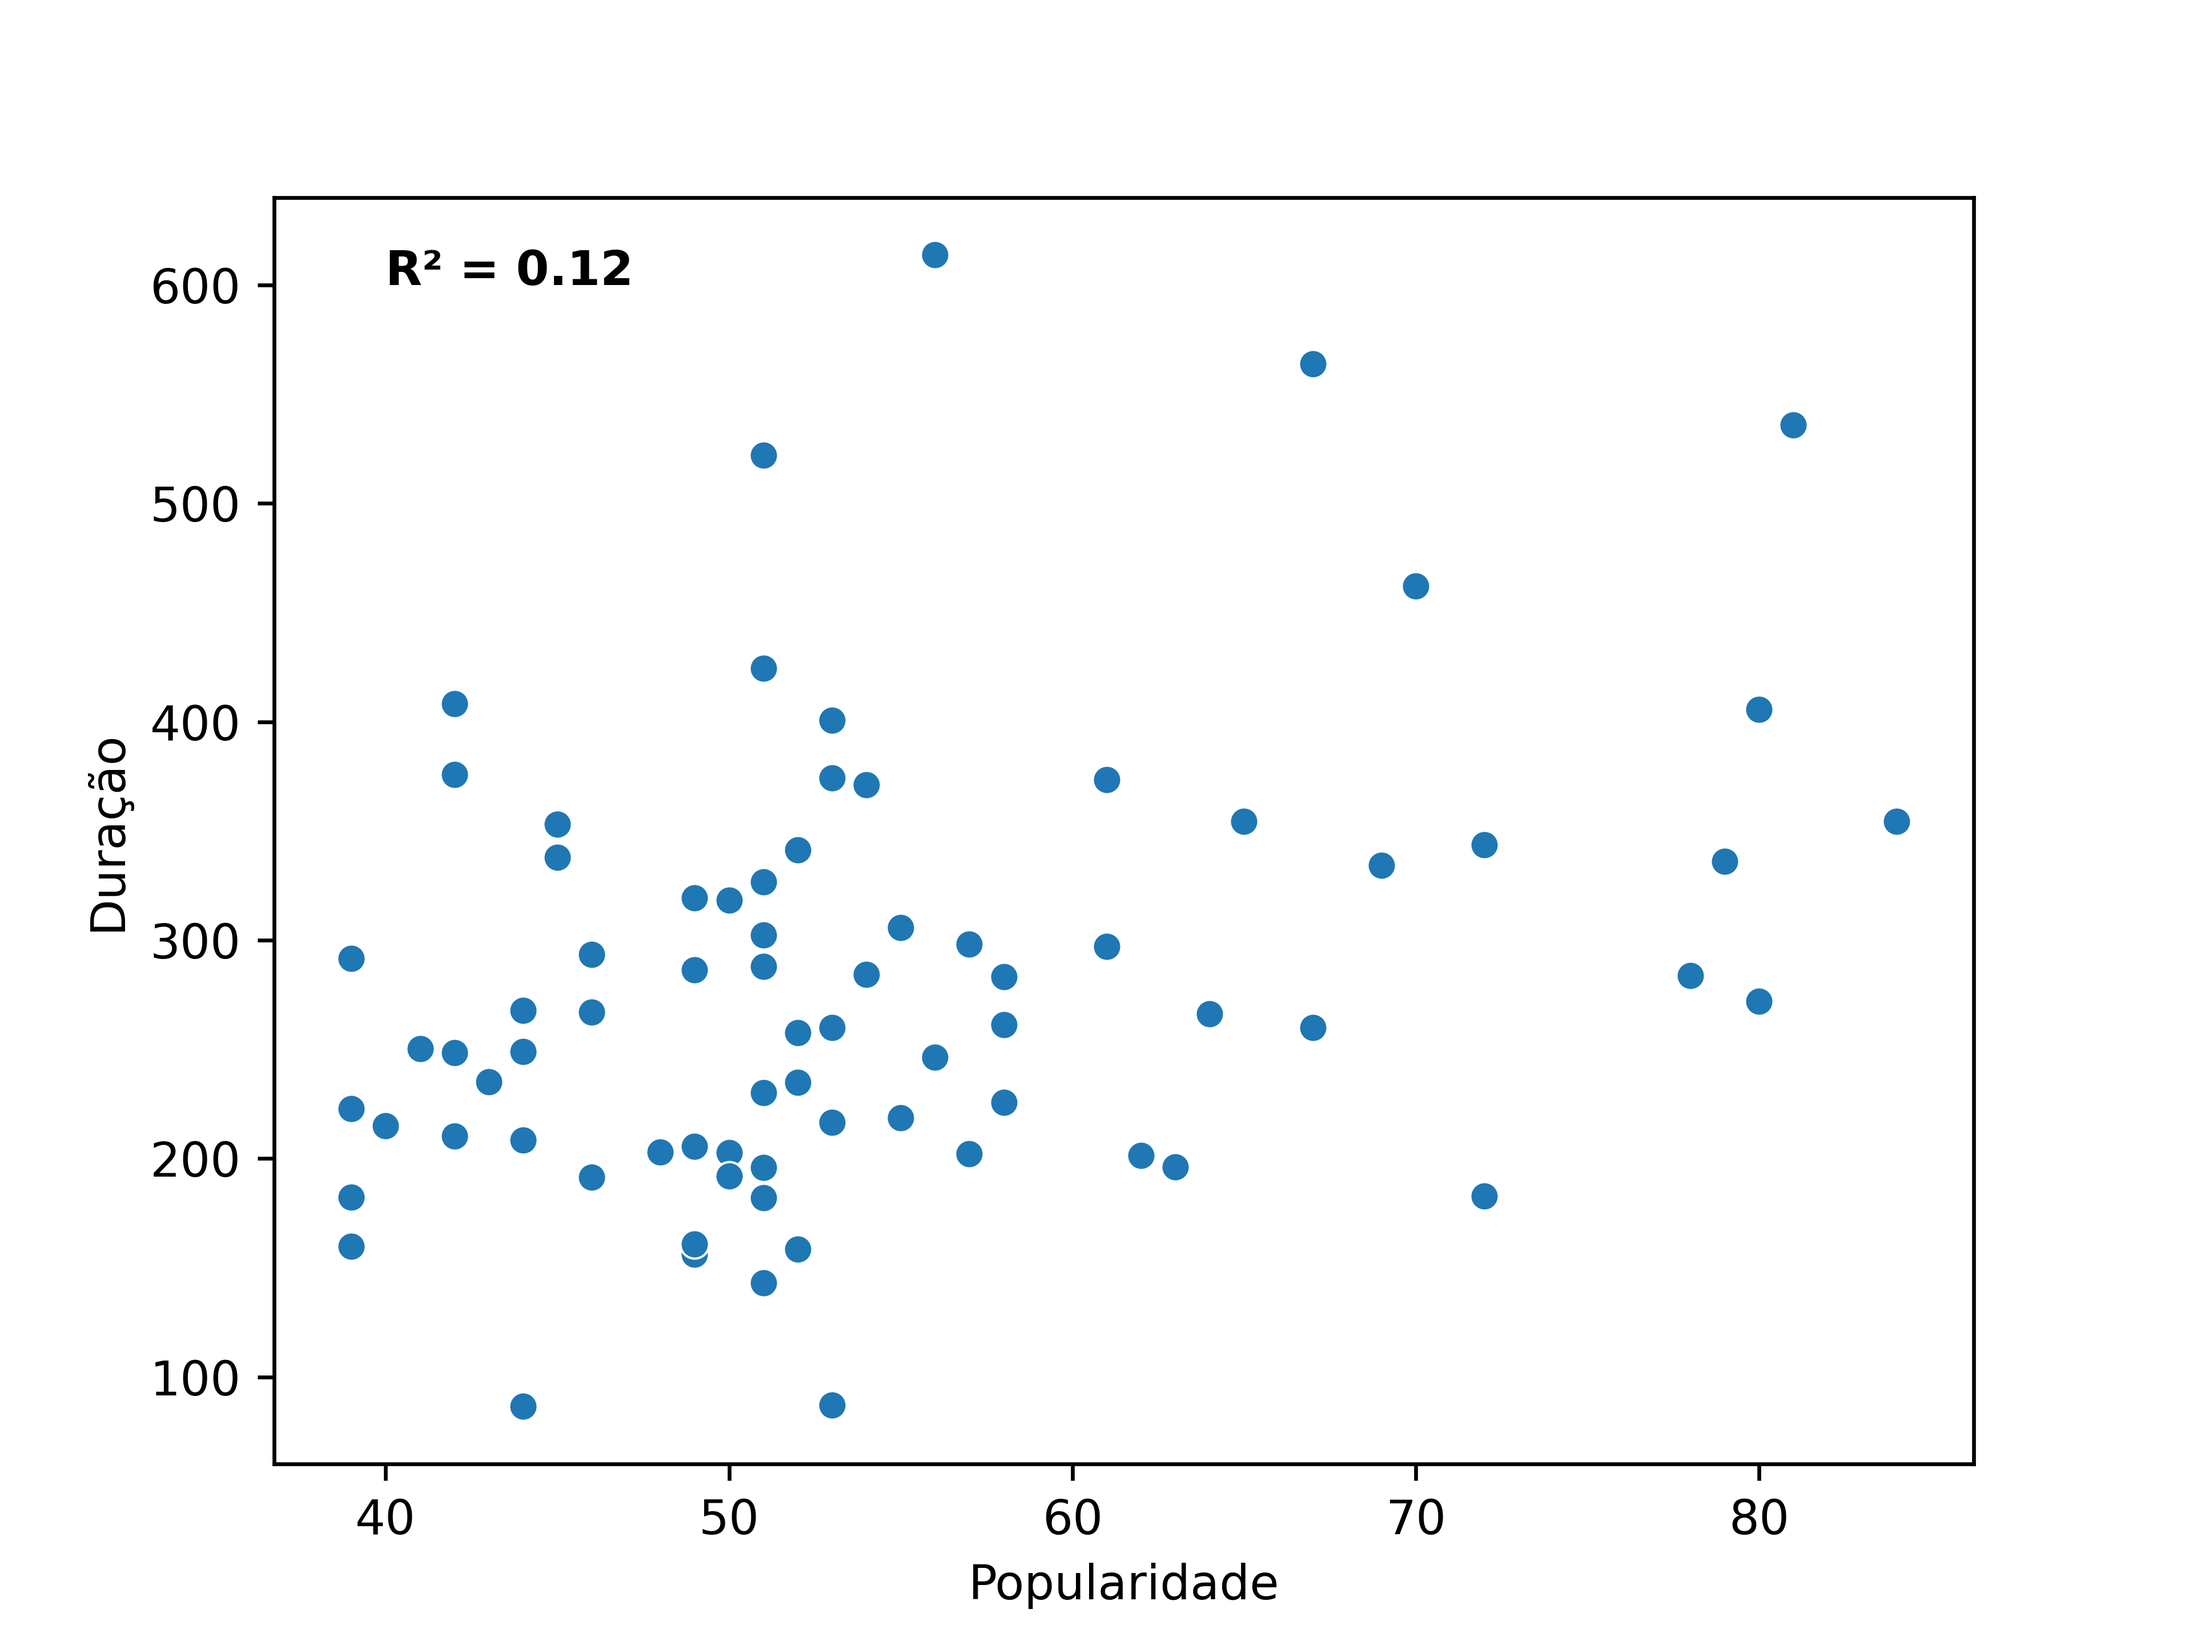
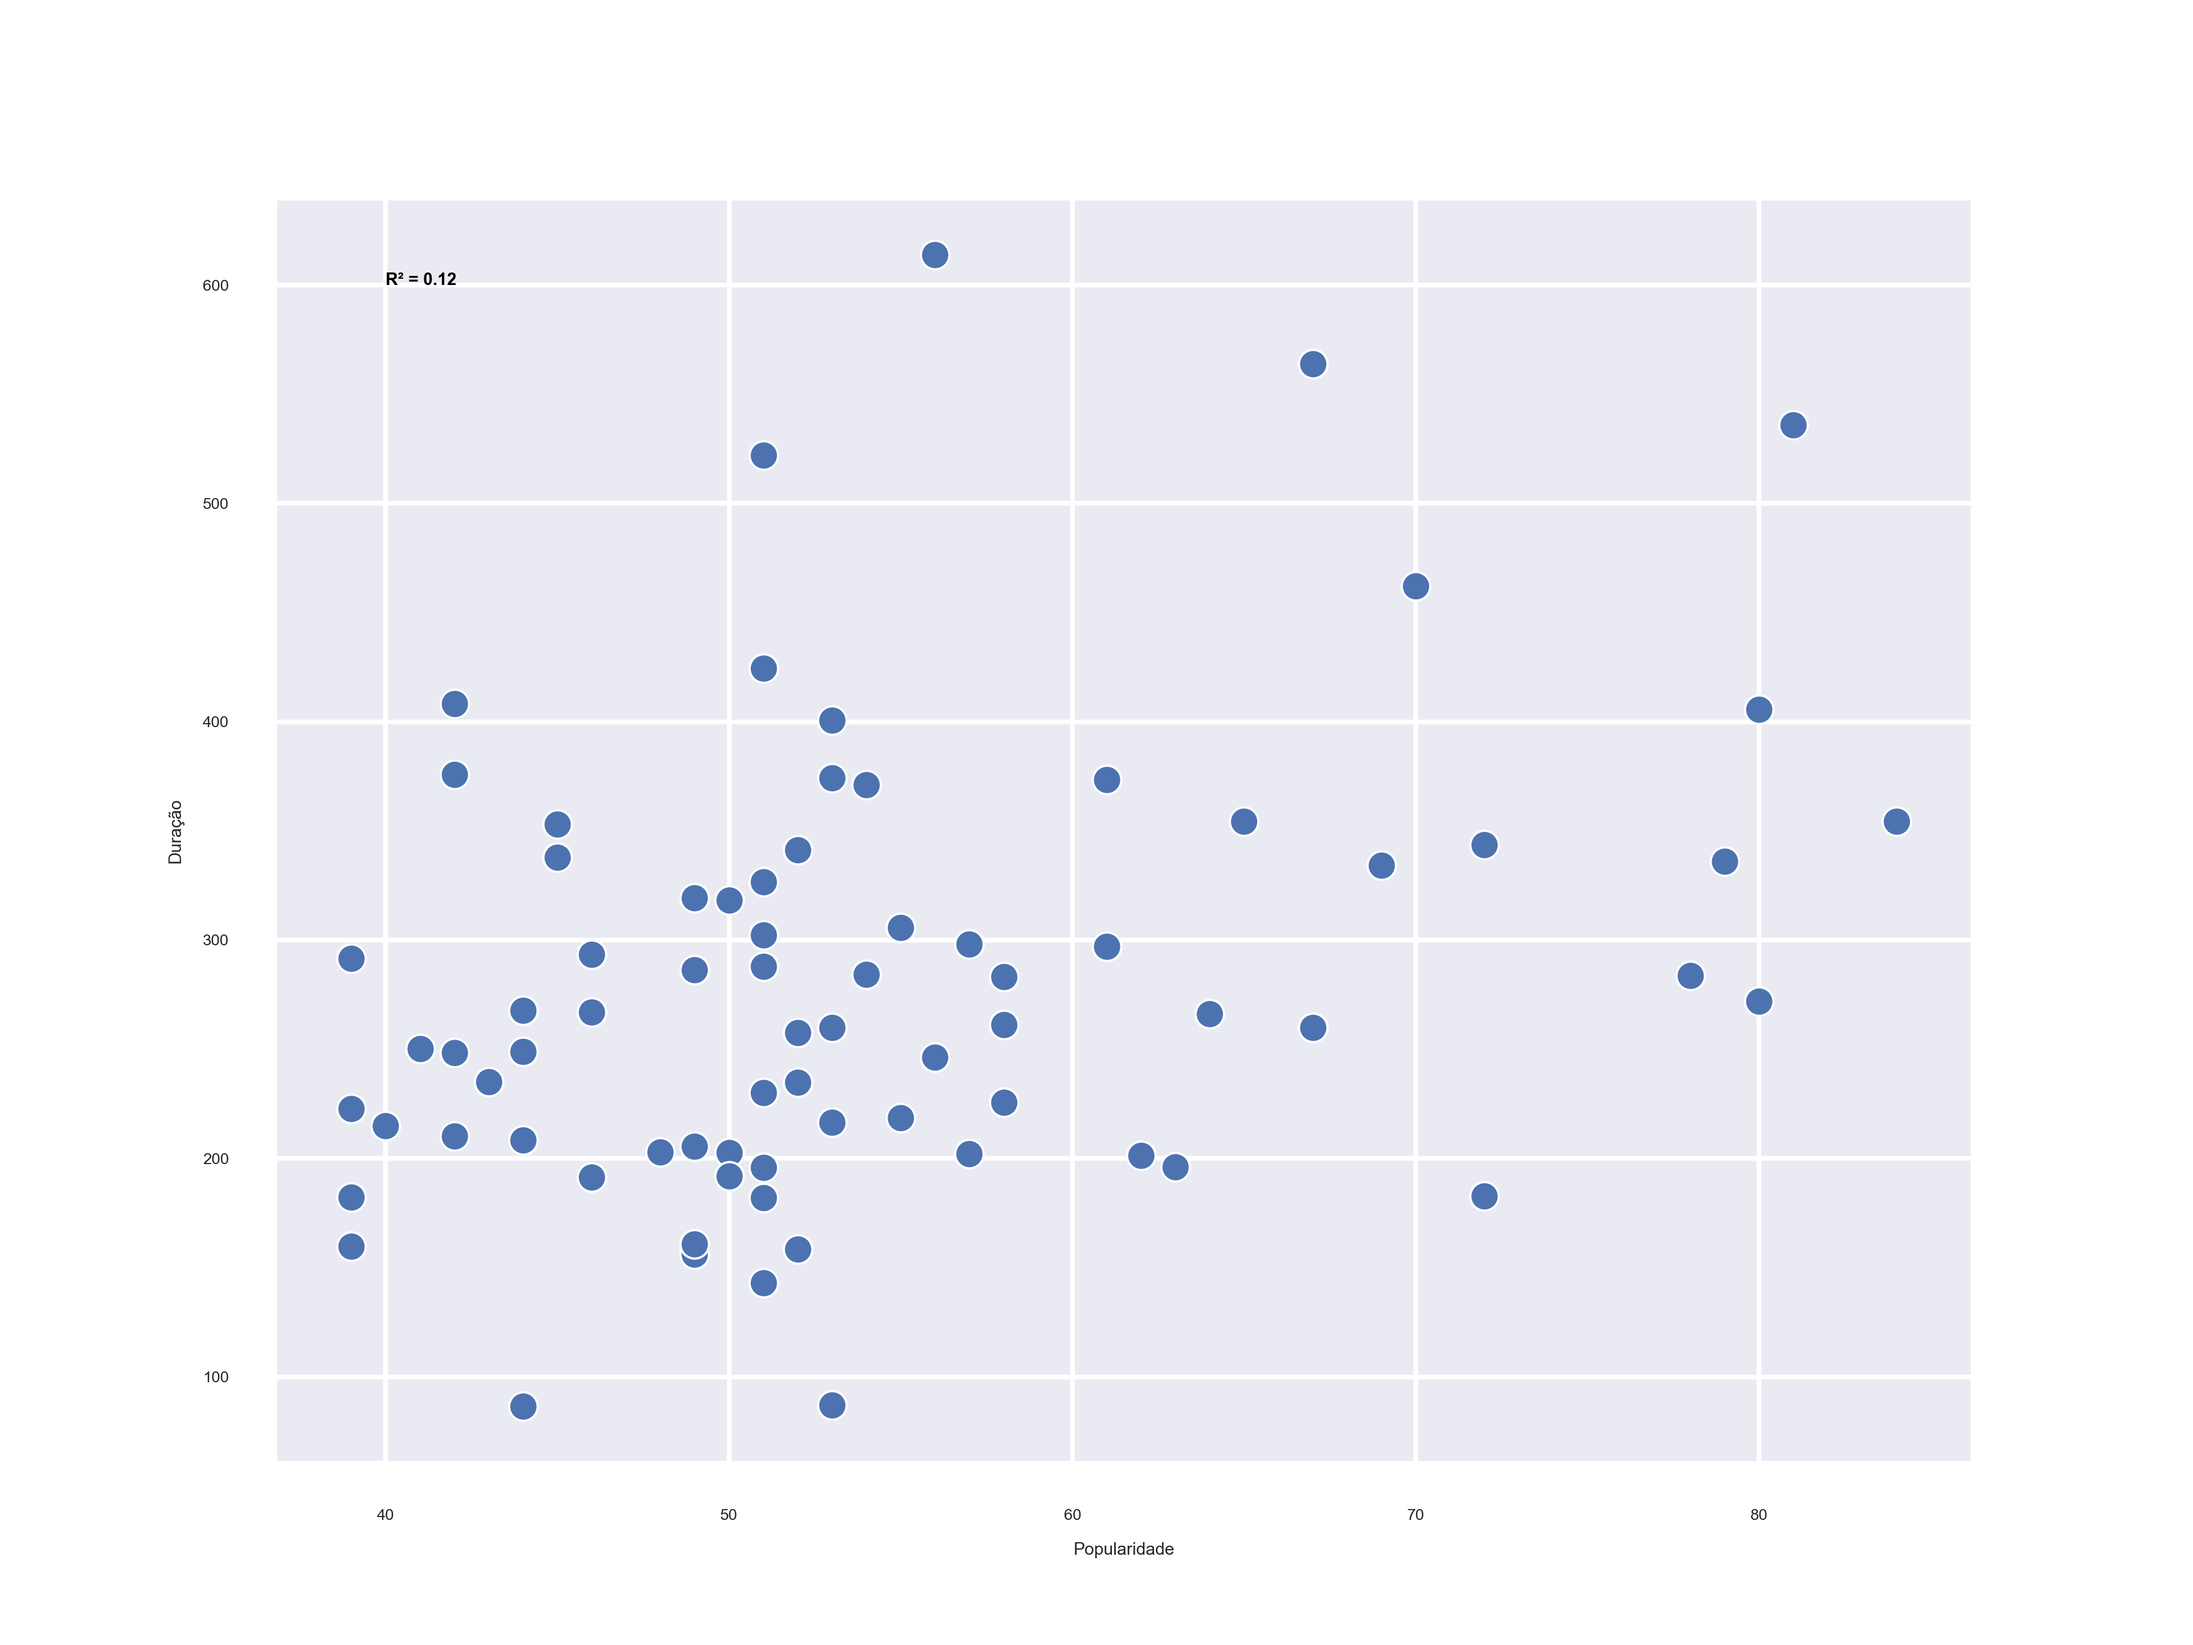
Ajeite tamanho da fonte do Seaborn

diff --git a/Código/main.py b/Código/main.py
@@ -7,6 +7,8 @@ from scipy import stats
 import matplotlib.pyplot as plt
 
 if __name__ == "__main__":
+    sns.set(font_scale=0.3)
+    
     head, tail = ntpath.split(os.path.realpath(__file__))
     os.chdir(head)
 
